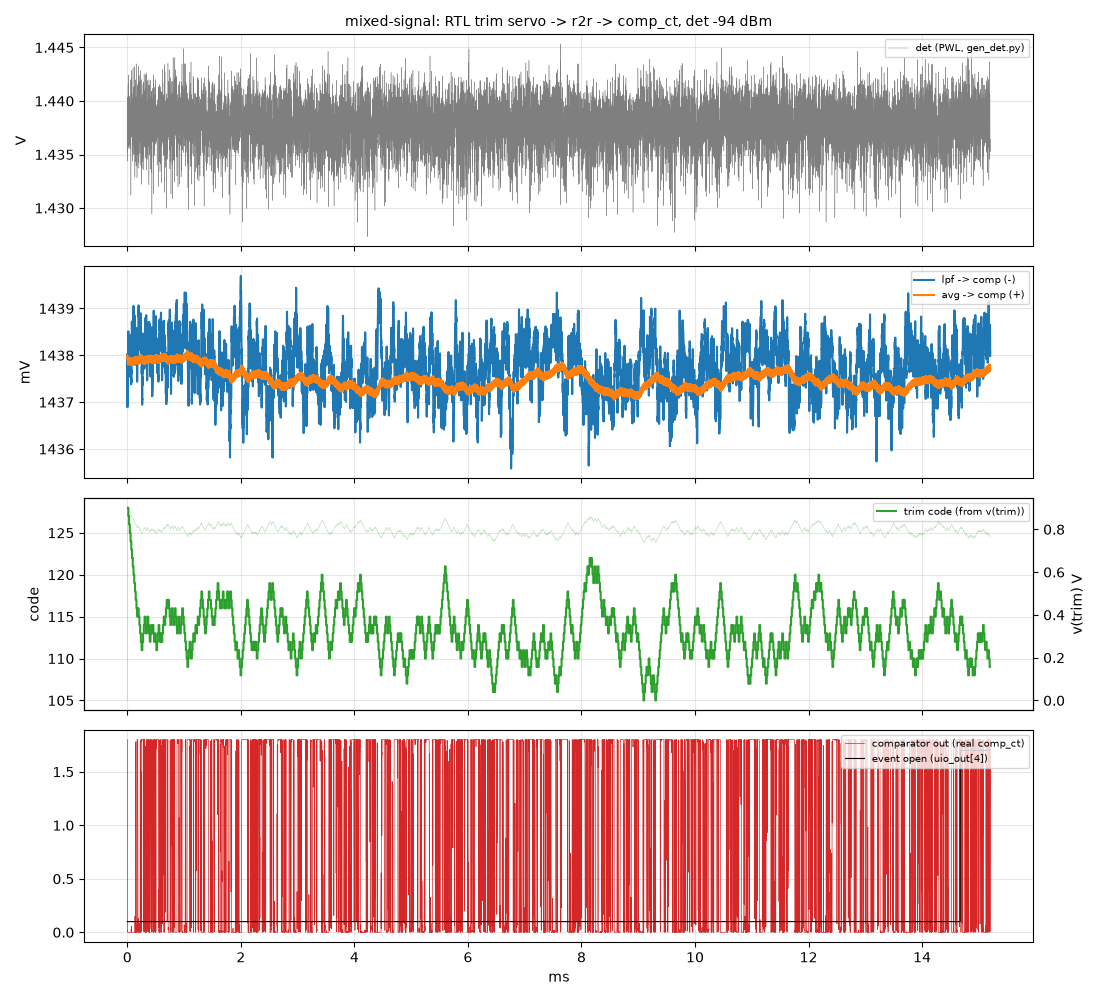
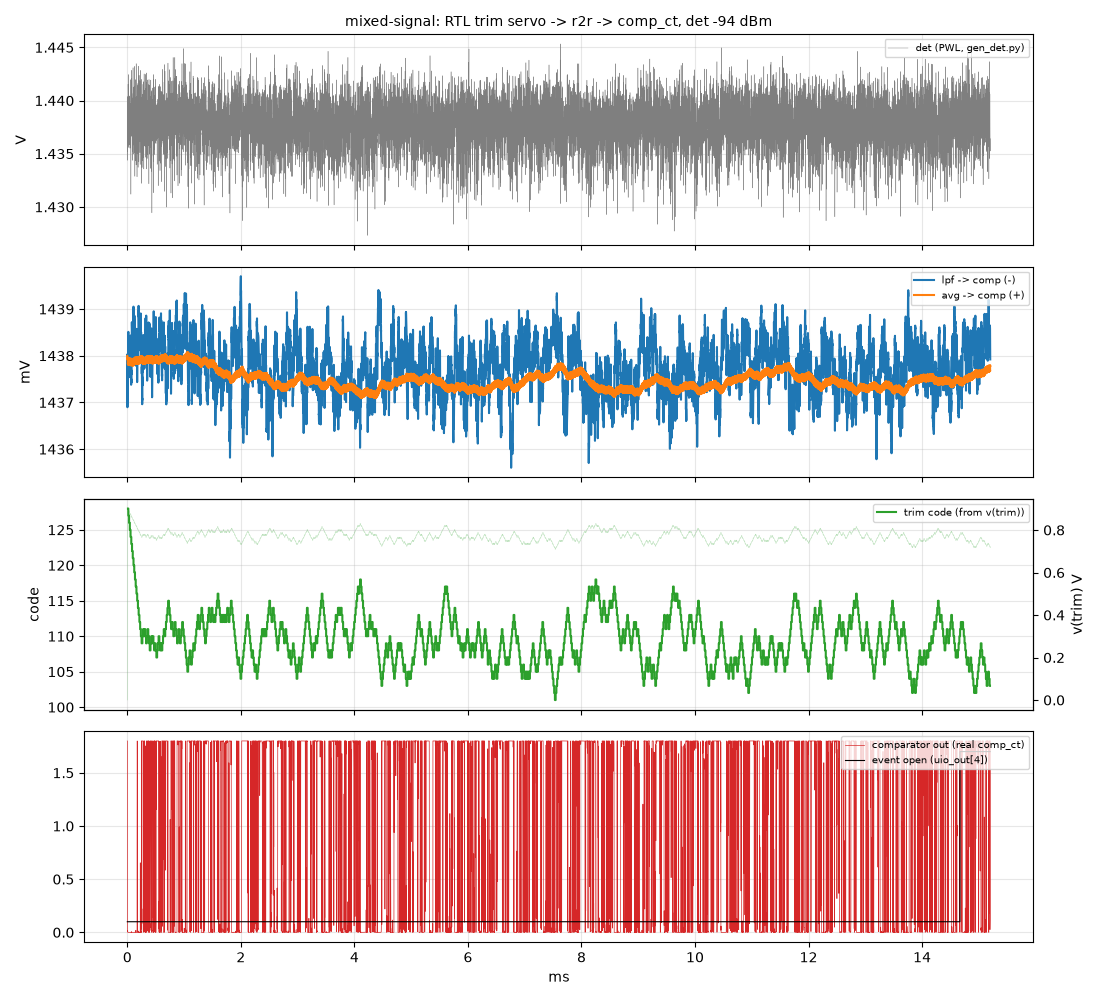
Mixed-signal -94 dBm with rdeg 2 MOhm: burst detected, servo dither 0.24 mV
Claude-Session: https://claude.ai/code/session_01KqF5gVHdyVCY8Do9kTrPsx

diff --git a/STATUS.md b/STATUS.md
@@ -29,7 +29,7 @@ Repo: github.com/mattvenn/ook-asic-radio (`main`).
 **Re-verified (2026-10-08 evening): rdeg 2 MΩ, decap blocks, chain stability.** Details in "Re-verify: rdeg 2 MΩ, decaps, chain stability" below.
 - Trim step at the operating point (DAC 0.8–1.2 V) is **0.062–0.076 mV/LSB at all corners, 10–50 °C**. e2e at −94 dBm: tt 11/12, fs 50 °C 8/12, ff 50 °C 10/12; −92 dBm 12/12.
 - Decaps: **50.06 pF** (VAPWR) and **29.9 pF** (VDPWR), flat to 434 MHz and over ±10 % supply.
-- `tb_radio_analog`: unchanged. Bias OTA loop: PM ~90° at all corners. R/C corners: trim step 0.056–0.085 mV/LSB.
+- `tb_radio_analog`: unchanged. Mixed-signal −94 dBm (real servo loop) still detects the burst. Bias OTA loop: PM ~90° at all corners. R/C corners: trim step 0.056–0.085 mV/LSB.
 - **Chain layout rule:** keep chain output → input coupling (pad or stage-2 input) **≤ 0.1 fF** asymmetric. At the highest-gain corner (ss 10 °C, 81 dB), 0.2 fF gives +2.8 dB of peaking near 600 MHz and **0.5 fF oscillates** (1 fF at tt). Supply/ground L up to 5 nH with the 30 pF decap is fine.
 
 **Next steps, in order:**
@@ -62,6 +62,8 @@ Run from `build/vfy` (its own `.spiceinit` with `num_threads=4`, so it can share
 - **Passive (R/C) corners, comparator** (`CORNERS="hh ll ss_hh fs_ll" TEMPS="10 50" TBS=comp`): the local step is 0.056–0.060 at hh / ss_hh and 0.072–0.085 mV/LSB at ll / fs_ll, ∝ 1/rdeg as expected. Offsets are unchanged. **The whole MOS × R/C × temperature span is 0.056–0.085 mV/LSB.**
   - The averager's τ is a cap ratio, so it doesn't move. The LPF corner moves with R·C (~11 kHz at hh, ~20 kHz at ll), inside the 10–20 kHz span the e2e `--bv` sweep already covered.
 - **Bias OTA loop** (`sim/bias/loop.sh`): the loop is broken at M2's gate (Middlebrook voltage injection) in tb_bias, with real diode loads. At all 5 MOS corners × 10/27/50 °C: **PM 90–91.5°**, unity gain 0.75–2.2 MHz (Cc dominant pole), −180° near 100–115 MHz (large gain margin), DC loop gain 28–35 dB. That loop error is why tb_bias shows 59.4 rather than 60 µA.
+- **Mixed-signal −94 dBm with rdeg 2 MΩ** (RTL servo → real `r2r` → real `comp_ct`; `sim/plots/mixed_-94.png`): pin order OK (1172 settled steps, all ±1). The servo goes 128 → mean 109 and dithers 102–118 (std 3.4 LSB ≈ 0.24 mV at ~0.07 mV/LSB; before: 105–122, std 3.2 LSB at the larger step). **The burst is detected: the event pin opens at 14.67 ms**, the same as with 1.4 MΩ.
+  - The `tools/longrun` done marker says `exit 1` for these runs. That's the `grep -v` at the end of `tools/osic`, which exits 1 when all output went to a log. Check the log tail instead.
 - **Decaps** (`sim/decap/decap_ac.sh`; C = Im(I)/ωV, ESR = Re(1/Y)):
   - decap_vapwr **50.06 pF**, ESR 0.011 Ω; decap_vdpwr **29.9 pF**, ESR 0.069 Ω. Same at 1 / 100 / 434 MHz and at supply ±10 %. One 10×10 MIM unit is 206 fF, so the MOS part is ~29.4 pF thick-oxide (2.9 fF/µm²) and ~23.8 pF thin (7.9 fF/µm²).
   - BSIM here is quasi-static, so it shows no channel resistance. Hand estimate: ~1–2 Ω for the parallel L = 5 µm channels, an RC corner of several GHz. Fine.
